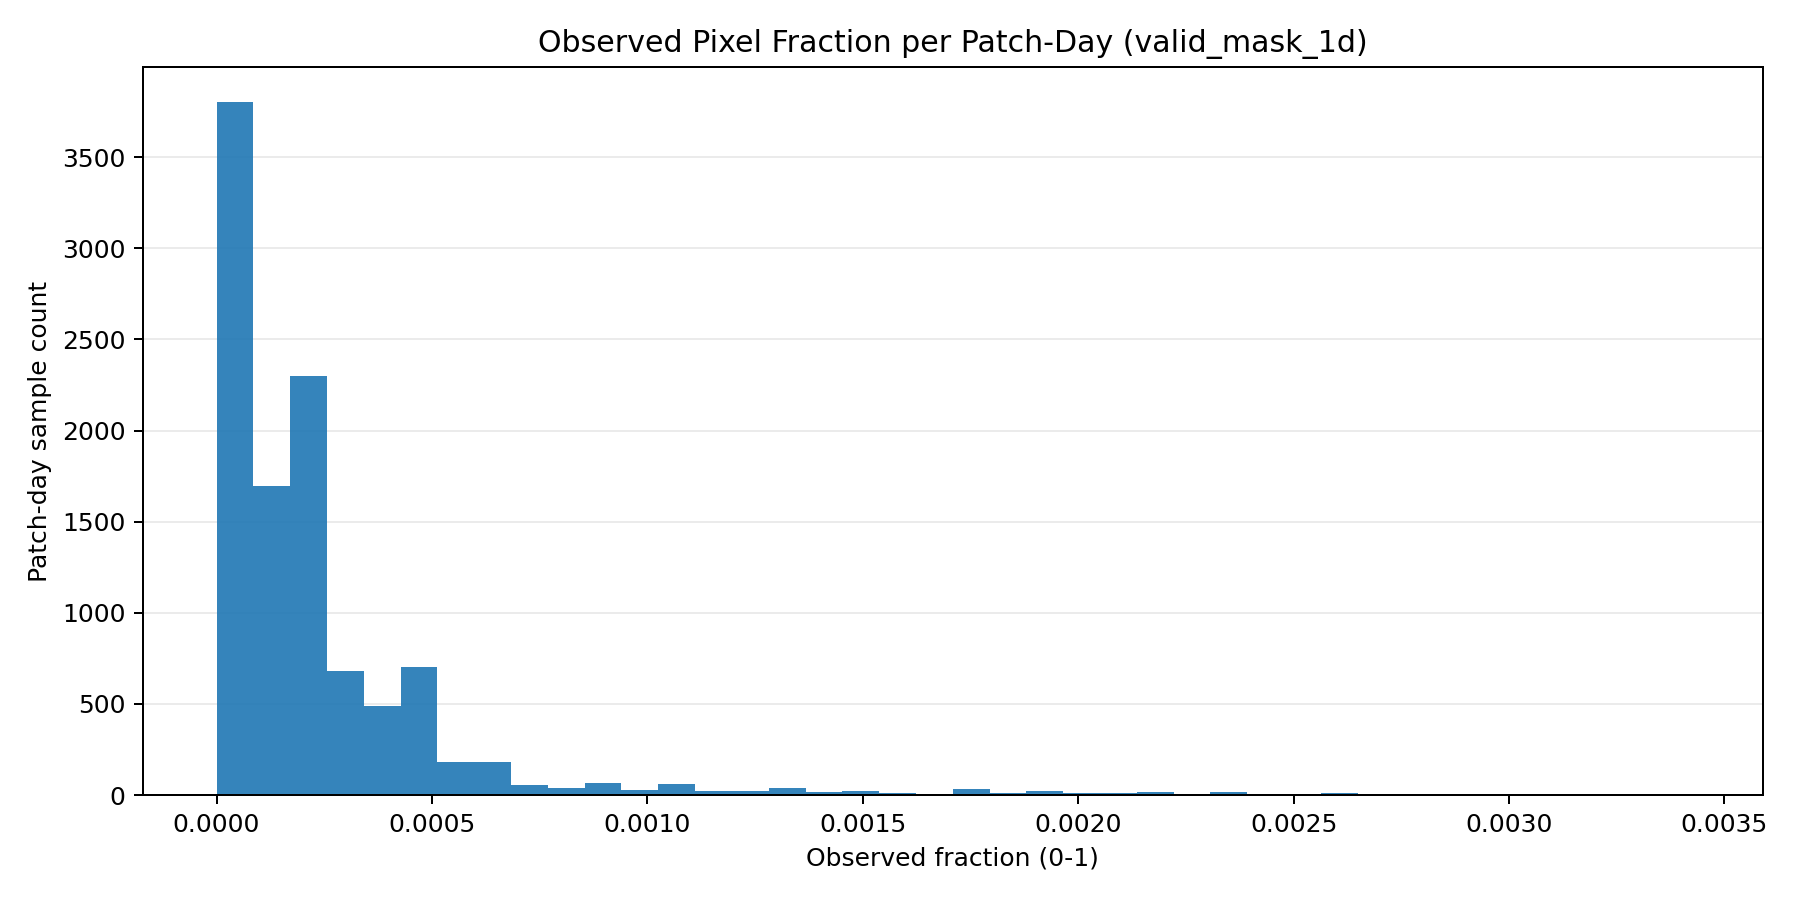
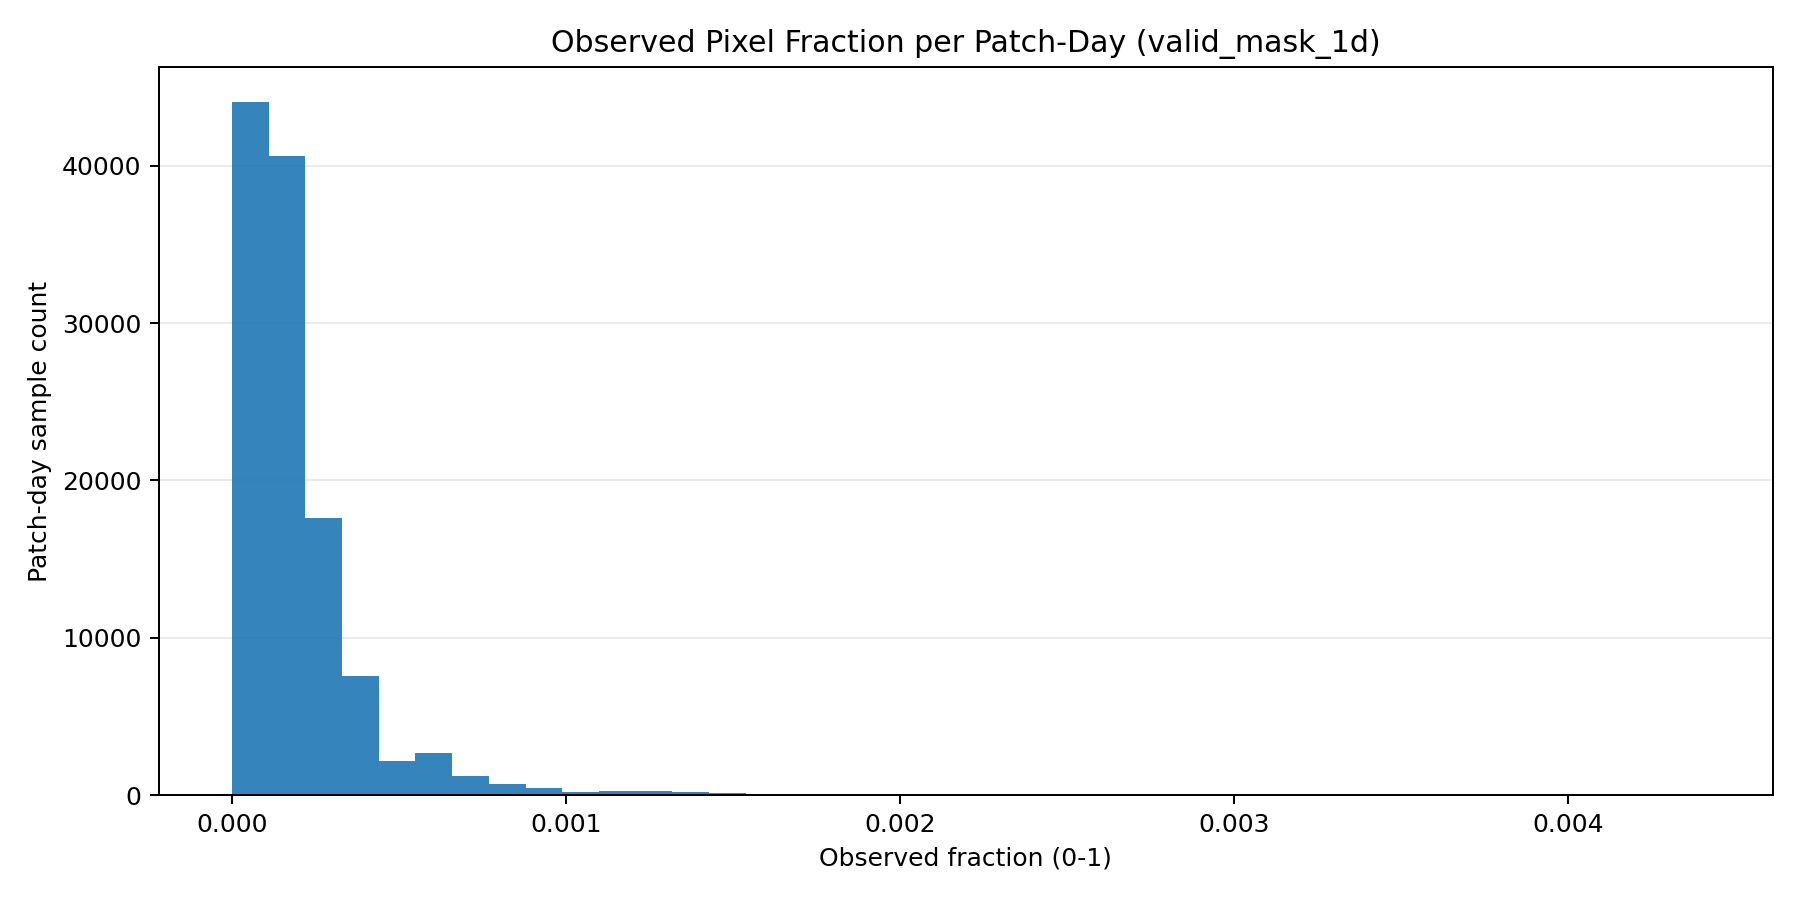
docs

diff --git a/docs/production-datasets.md b/docs/production-datasets.md
@@ -264,8 +264,8 @@ Estimate:
 Sample Image:  
 ![OSTIA 0.1 deg sample](assets/argo_ostia_sample_5.png)  
   
-Validation Set Histogram of valid pixel fractions:  
+Train Set Histogram of valid pixel fractions for the years 2019 and 2020:  
 ![OSTIA 0.1 deg hist](assets/argo_observations_histogram.png)  
   
-Validaiton Set Map of patches, color-coded by valid pixel fraction:  
+Train Set Map of patches, color-coded by valid pixel fraction for the years 2019 and 2020:  
 ![OSTIA 0.1 deg map](assets/argo_observations_map.png)  
